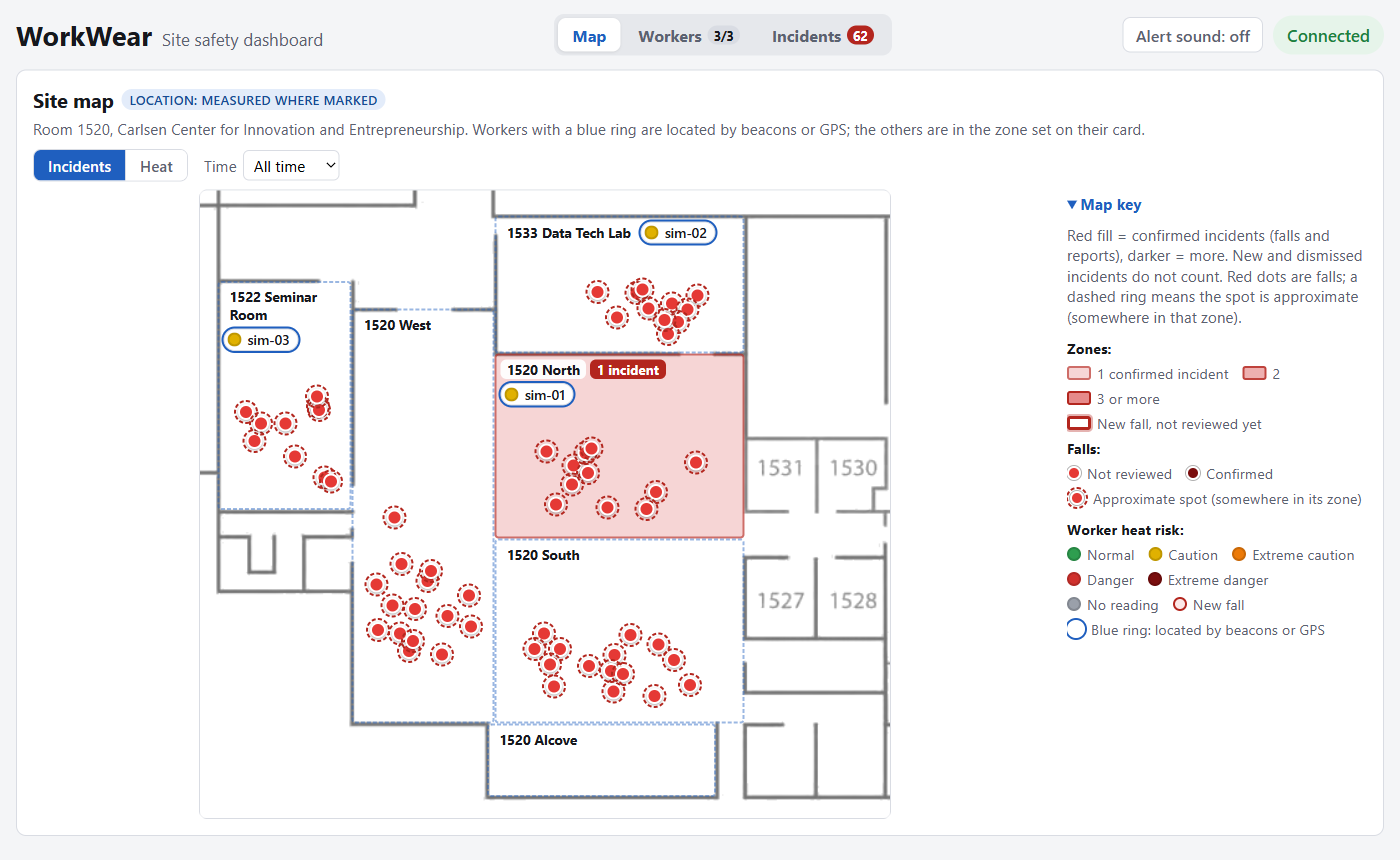
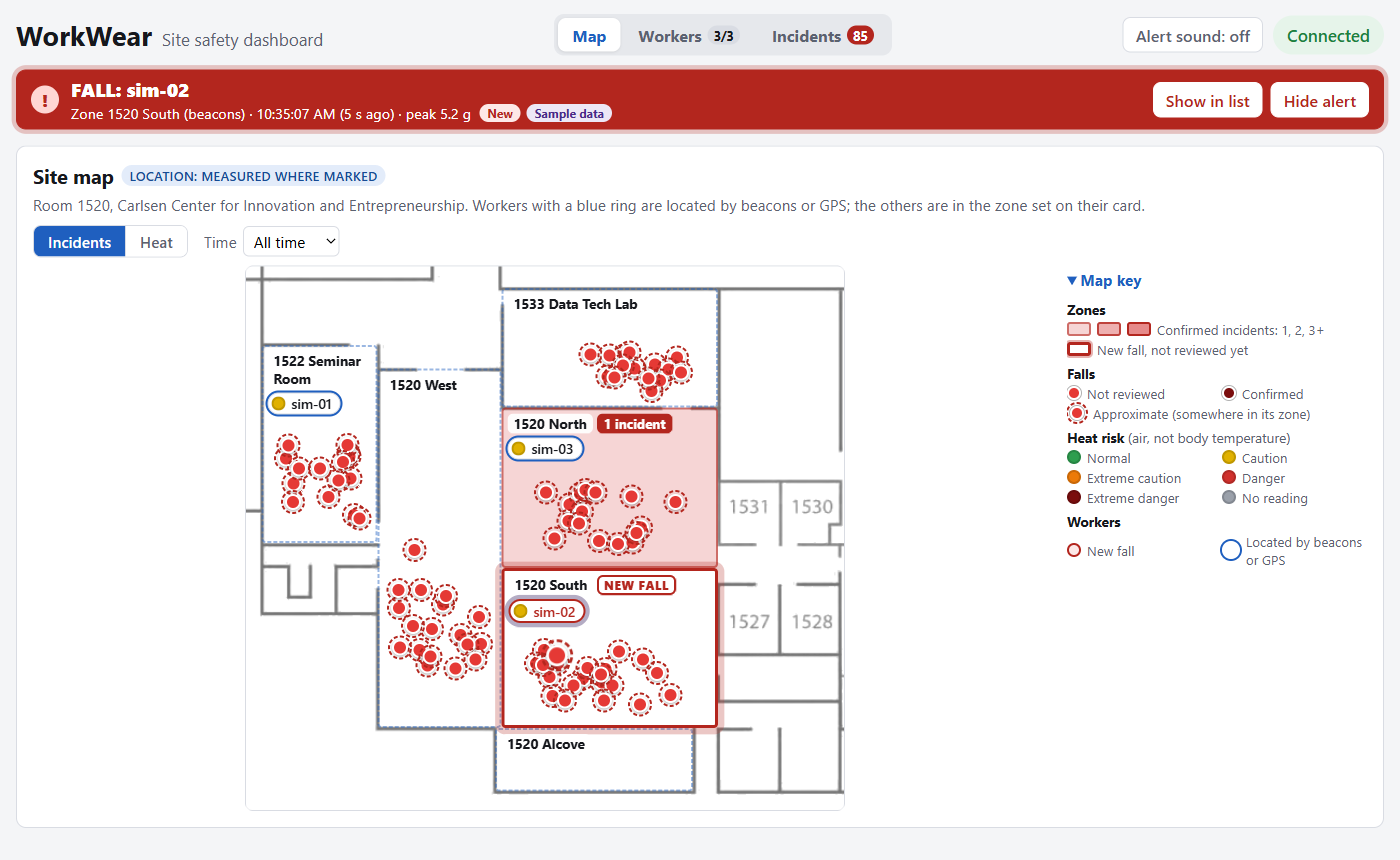
D10: fixed alert line, names above fall dots, compact map key
- The fall alert is a fixed-height line under the header that is always
  there: "No fall alerts" when quiet, red and pulsing during a fall. It
  never moves or covers the page. Only the area below it scrolls.
- Worker names and zone labels are drawn above fall dots; the pulsing
  outline has its own layer so it no longer pulls names underneath.
- Map key: description paragraph removed, four short groups in two
  columns. Beside the map on wide screens; a panel over the map on
  smaller ones, so it never needs scrolling.
- New README screenshots.

Changed region(s): [[0.0, 0.0605, 1.0, 0.9674], [0.7371, 0.2116, 0.9829, 0.7558]]

diff --git a/dashboard/style.css b/dashboard/style.css
@@ -56,12 +56,12 @@ h2 { font-size: 1.15rem; display: flex; align-items: center; gap: 8px; flex-wrap
 
 /* Views: the tab bar shows one panel at a time (body[data-view]). The Map view fills the
    window below the header, so the whole plan is on screen and the page does not scroll. */
-body { display: flex; flex-direction: column; min-height: 100vh; min-height: 100dvh; }
-.layout { flex: 1; display: flex; flex-direction: column; min-height: 0; }
+/* App layout: the header and alert line stay put; only the area below them scrolls. */
+body { display: flex; flex-direction: column; height: 100vh; height: 100dvh; overflow: hidden; }
+.layout { flex: 1; min-height: 0; overflow-y: auto; display: flex; flex-direction: column; gap: var(--gap); padding-bottom: 8px; }
 body[data-view="map"] .panel:not(.panel--map),
 body[data-view="workers"] .panel:not(.panel--workers),
 body[data-view="incidents"] .panel:not(.panel--incidents) { display: none; }
-body[data-view="map"] { height: 100vh; height: 100dvh; }
 body[data-view="map"] .footer { display: none; }
 
 .panel--map { flex: 1; min-height: 0; display: flex; flex-direction: column; }
@@ -103,8 +103,6 @@ body[data-view="map"] .footer { display: none; }
   .topbar__right { gap: 6px; flex-wrap: nowrap; }
   .topbar .btn, .conn { font-size: 0.8rem; padding: 4px 8px; white-space: nowrap; }
   .panel { padding: 10px; }
-  .alert { padding: 10px 12px; gap: 8px; }
-  .alert__title { font-size: 1.15rem; }
   .panel--map .panel__note { font-size: 0.8rem; }
 
   .tabbar {
@@ -189,22 +187,60 @@ body[data-view="map"] .footer { display: none; }
 .btn--quiet[aria-pressed="true"] { color: var(--accent); border-color: var(--accent); }
 .topbar__right { display: flex; align-items: center; gap: 10px; flex-wrap: wrap; }
 
-/* Fall alert banner (D3) */
+/* Fall alert line (D3, reworked in D10). It is always in the layout at a fixed height, so a fall
+   never moves or covers anything: quiet when idle, red and pulsing while there is a new fall. */
 .alert {
-  position: sticky; top: 0; z-index: 10; margin-bottom: var(--gap);
-  display: flex; align-items: center; justify-content: space-between; gap: var(--gap); flex-wrap: wrap;
-  padding: 14px 18px; border-radius: var(--radius); background: var(--bad); color: #fff;
-  box-shadow: 0 4px 16px rgb(0 0 0 / 0.25);
+  flex: none; height: 60px; margin-bottom: var(--gap); padding: 0 14px;
+  display: flex; align-items: center; gap: 12px;
+  border: 1px solid var(--border); border-radius: var(--radius); background: var(--panel); color: var(--muted);
 }
-.alert[hidden] { display: none; }
-.alert__body { display: flex; flex-direction: column; gap: 4px; min-width: 0; }
-.alert__title { font-size: 1.4rem; font-weight: 800; overflow-wrap: anywhere; }
-.alert__badges { display: flex; gap: 6px; flex-wrap: wrap; }
-.alert__more { font-weight: 600; }
+.alert__icon {
+  flex: none; width: 28px; height: 28px; border-radius: 50%; display: grid; place-items: center;
+  font-weight: 900; line-height: 1; background: #e6f4ea; color: var(--ok);
+}
+.alert__icon::before { content: "\2713"; } /* check mark */
+.alert__body { flex: 1; min-width: 0; display: flex; flex-direction: column; justify-content: center; gap: 2px; }
+.alert__title, .alert__detail { white-space: nowrap; overflow: hidden; text-overflow: ellipsis; }
+.alert__title { font-weight: 700; }
+.alert__detail { font-size: 0.85rem; }
+.alert__badges { display: inline-flex; gap: 6px; margin-left: 8px; vertical-align: 1px; }
+.alert__badges .badge { font-size: 0.7rem; padding: 1px 8px; }
+.alert__more { margin-left: 8px; font-weight: 700; }
 .alert__more:empty { display: none; }
-.alert__actions { display: flex; gap: 8px; flex-wrap: wrap; }
+.alert__actions { flex: none; display: flex; gap: 8px; }
+.alert[data-state="idle"] .alert__detail { display: none; }
+
+.alert[data-state="active"] {
+  background: var(--bad); border-color: var(--bad); color: #fff;
+  animation: alert-pulse 1.2s ease-in-out infinite;
+}
+.alert[data-state="active"] .alert__icon { background: #fff; color: var(--bad); animation: alert-blink 1.2s steps(2, jump-none) infinite; }
+.alert[data-state="active"] .alert__icon::before { content: "!"; }
+.alert[data-state="active"] .alert__title { font-size: 1.1rem; font-weight: 800; }
 .alert .btn { background: #fff; color: var(--bad); border-color: #fff; }
 .alert .btn:focus-visible { outline-color: #fff; }
+/* Only a glow and color change: nothing about the size changes, so nothing moves. */
+@keyframes alert-pulse {
+  0%, 100% { box-shadow: 0 0 0 0 rgb(179 38 30 / 0.6); }
+  50% { box-shadow: 0 0 0 6px rgb(179 38 30 / 0.12); }
+}
+@keyframes alert-blink { 50% { background: #ffd6d3; } }
+@media (prefers-reduced-motion: reduce) {
+  .alert[data-state="active"], .alert[data-state="active"] .alert__icon { animation: none; }
+}
+/* Phones: a bit taller, so the detail gets two lines; the buttons stack. */
+@media (max-width: 700px) {
+  .alert { height: 70px; padding: 0 10px; gap: 8px; }
+  .alert__detail {
+    white-space: normal; display: -webkit-box; -webkit-line-clamp: 2; -webkit-box-orient: vertical;
+    font-size: 0.75rem; line-height: 1.25;
+  }
+  .alert[data-state="active"] .alert__title { font-size: 1rem; }
+  .alert__badges { margin-left: 6px; gap: 4px; }
+  .alert__badges .badge { font-size: 0.65rem; padding: 0 6px; }
+  .alert__actions { flex-direction: column; gap: 4px; }
+  .alert .btn { font-size: 0.75rem; padding: 3px 8px; }
+}
 
 /* Incident list (D3) */
 .incidents { list-style: none; margin: 0; padding: 0; display: flex; flex-direction: column; gap: 8px; }
@@ -291,8 +327,21 @@ body[data-view="map"] .footer { display: none; }
 
 .mapkey { margin: 0; }
 .mapkey > summary { cursor: pointer; font-weight: 700; font-size: 0.9rem; color: var(--accent); padding: 4px 0; }
-.mapkey > .panel__note { margin: 6px 0 0; }
-.mapkey .legend__title { flex-basis: 100%; } /* each group starts on its own line */
+.mapkey__title { font-size: 0.8rem; font-weight: 700; margin: 6px 0 2px; color: var(--text); }
+.mapkey__sub { font-weight: 400; color: var(--muted); }
+.mapkey .legend { margin: 0; display: grid; grid-template-columns: repeat(2, minmax(0, 1fr)); gap: 2px 10px; font-size: 0.78rem; }
+.legend__wide { grid-column: 1 / -1; }
+#legend-incidents[hidden] { display: none; }
+/* Smaller screens: the open key is a panel over the bottom of the map, so it never needs scrolling. */
+@media (max-width: 999px) {
+  .mapwrap__main { flex: 0 1 auto; } /* key right under the map, not at the bottom of the panel */
+  .mapkey { position: relative; }
+  .mapkey[open] > .mapkey__body {
+    position: absolute; left: 0; right: 0; bottom: calc(100% + 6px); z-index: 6;
+    background: var(--panel); border: 1px solid var(--border); border-radius: var(--radius);
+    padding: 2px 12px 10px; box-shadow: 0 6px 24px rgb(0 0 0 / 0.18);
+  }
+}
 .legend { list-style: none; margin: 12px 0 0; padding: 0; display: flex; flex-wrap: wrap; gap: 6px 14px; font-size: 0.85rem; color: var(--muted); }
 .legend li { display: inline-flex; align-items: center; gap: 6px; }
 .legend .dot__swatch { width: 14px; height: 14px; }
@@ -372,14 +421,27 @@ body[data-view="map"] .footer { display: none; }
   .map--plan .zone__fall { font-size: 0.6rem; padding: 0 3px; border-width: 1.5px; border-radius: 4px; }
 }
 .zone--fall .zone__fall { display: inline-block; }
-.zone.zone--fall { border: 3px solid var(--bad); z-index: 2; animation: zone-pulse 1.2s ease-in-out infinite; }
+.zone.zone--fall { border: 3px solid var(--bad); }
+/* The pulse is its own layer, so the zone itself makes no stacking context and its names can
+   still sit above the fall dots (see "Map stacking" below). */
+.zone--fall::after {
+  content: ""; position: absolute; inset: -3px; border-radius: inherit; pointer-events: none;
+  z-index: 2; animation: zone-pulse 1.2s ease-in-out infinite;
+}
 @keyframes zone-pulse {
   0%, 100% { box-shadow: 0 0 0 2px rgb(179 38 30 / 0.55); }
   50% { box-shadow: 0 0 0 8px rgb(179 38 30 / 0.15); }
 }
 @media (prefers-reduced-motion: reduce) {
-  .zone.zone--fall { animation: none; box-shadow: 0 0 0 4px rgb(179 38 30 / 0.45); }
+  .zone--fall::after { animation: none; box-shadow: 0 0 0 4px rgb(179 38 30 / 0.45); }
 }
+
+/* Map stacking: zones (no z-index) < pulse outline (2) < fall dots (3) < names and tags (4).
+   Worker names and zone labels are never hidden under fall dots. The name lists let clicks
+   through to the fall dots underneath, except on the names themselves. */
+.map--plan .zone__label, .map--plan .zone__layer, .map--plan .zone__fall, .map--plan .zone .dots { position: relative; z-index: 4; }
+.map--plan .zone .dots { pointer-events: none; }
+.map--plan .zone .dot { pointer-events: auto; }
 
 /* Fall dots on the floor plan. Solid = at its GPS position; dashed ring = approximate (a steady
    spot inside the zone it was recorded in). Bright = not reviewed, dark = confirmed. */

diff --git a/dashboard/index.html b/dashboard/index.html
@@ -27,16 +27,17 @@
     </div>
   </header>
 
-  <div id="alert" class="alert" role="alert" hidden>
-    <div class="alert__body">
-      <div class="alert__title" id="alert-title"></div>
-      <div id="alert-detail"></div>
-      <div class="alert__badges" id="alert-badges"></div>
-      <div class="alert__more" id="alert-more"></div>
+  <!-- Fall alert line: always there at a fixed height, so a fall never moves or covers the page.
+       Quiet when there is nothing; red and pulsing when a fall comes in. -->
+  <div id="alert" class="alert" data-state="idle">
+    <span class="alert__icon" aria-hidden="true"></span>
+    <div class="alert__body" role="alert">
+      <div class="alert__title" id="alert-title">No fall alerts</div>
+      <div class="alert__detail"><span id="alert-detail"></span><span class="alert__badges" id="alert-badges"></span><span class="alert__more" id="alert-more"></span></div>
     </div>
     <div class="alert__actions">
-      <button id="alert-show" class="btn" type="button">Show in list</button>
-      <button id="alert-hide" class="btn" type="button">Hide alert</button>
+      <button id="alert-show" class="btn" type="button" hidden>Show in list</button>
+      <button id="alert-hide" class="btn" type="button" hidden>Hide alert</button>
     </div>
   </div>
 
@@ -74,29 +75,35 @@
       </div>
       <details class="mapkey" id="map-key">
       <summary>Map key</summary>
-      <p class="panel__note" id="map-layer-note"></p>
-      <ul class="legend" id="legend-incidents" aria-label="Zone colors">
-        <li class="legend__title">Zones:</li>
-        <li><span class="legend__zone legend__zone--shade-1"></span>1 confirmed incident</li>
-        <li><span class="legend__zone legend__zone--shade-2"></span>2</li>
-        <li><span class="legend__zone legend__zone--shade-3"></span>3 or more</li>
-        <li><span class="legend__zone legend__zone--fall"></span>New fall, not reviewed yet</li>
-        <li class="legend__title">Falls:</li>
-        <li><span class="legend__marker marker--new marker--exact"></span>Not reviewed</li>
-        <li><span class="legend__marker marker--confirmed marker--exact"></span>Confirmed</li>
-        <li><span class="legend__marker marker--new marker--approx"></span>Approximate spot (somewhere in its zone)</li>
-      </ul>
-      <ul class="legend" aria-label="Worker dot colors">
-        <li class="legend__title">Worker heat risk:</li>
-        <li><span class="dot__swatch heat--normal"></span>Normal</li>
-        <li><span class="dot__swatch heat--caution"></span>Caution</li>
-        <li><span class="dot__swatch heat--extreme-caution"></span>Extreme caution</li>
-        <li><span class="dot__swatch heat--danger"></span>Danger</li>
-        <li><span class="dot__swatch heat--extreme-danger"></span>Extreme danger</li>
-        <li><span class="dot__swatch heat--none"></span>No reading</li>
-        <li><span class="dot__swatch dot__swatch--fall"></span>New fall</li>
-        <li><span class="legend__located"></span>Blue ring: located by beacons or GPS</li>
-      </ul>
+      <div class="mapkey__body">
+        <div id="legend-incidents">
+          <h3 class="mapkey__title">Zones</h3>
+          <ul class="legend" aria-label="Zone colors">
+            <li class="legend__wide"><span class="legend__zone legend__zone--shade-1"></span><span class="legend__zone legend__zone--shade-2"></span><span class="legend__zone legend__zone--shade-3"></span>Confirmed incidents: 1, 2, 3+</li>
+            <li class="legend__wide"><span class="legend__zone legend__zone--fall"></span>New fall, not reviewed yet</li>
+          </ul>
+          <h3 class="mapkey__title">Falls</h3>
+          <ul class="legend" aria-label="Fall dots">
+            <li><span class="legend__marker marker--new marker--exact"></span>Not reviewed</li>
+            <li><span class="legend__marker marker--confirmed marker--exact"></span>Confirmed</li>
+            <li class="legend__wide"><span class="legend__marker marker--new marker--approx"></span>Approximate (somewhere in its zone)</li>
+          </ul>
+        </div>
+        <h3 class="mapkey__title">Heat risk <span class="mapkey__sub">(air, not body temperature)</span></h3>
+        <ul class="legend" aria-label="Heat risk colors">
+          <li><span class="dot__swatch heat--normal"></span>Normal</li>
+          <li><span class="dot__swatch heat--caution"></span>Caution</li>
+          <li><span class="dot__swatch heat--extreme-caution"></span>Extreme caution</li>
+          <li><span class="dot__swatch heat--danger"></span>Danger</li>
+          <li><span class="dot__swatch heat--extreme-danger"></span>Extreme danger</li>
+          <li><span class="dot__swatch heat--none"></span>No reading</li>
+        </ul>
+        <h3 class="mapkey__title">Workers</h3>
+        <ul class="legend" aria-label="Worker dots">
+          <li><span class="dot__swatch dot__swatch--fall"></span>New fall</li>
+          <li><span class="legend__located"></span>Located by beacons or GPS</li>
+        </ul>
+      </div>
       </details>
       </div>
     </section>
@@ -125,12 +132,12 @@
       <div id="incidents-empty" class="empty">No incidents yet.</div>
       <ol id="incidents" class="incidents" aria-label="Incidents, newest first" hidden></ol>
     </section>
-  </main>
 
-  <footer class="footer">
-    Heat risk is based on ambient temperature and humidity at the helmet, not body temperature.
-    Location is the zone set by the supervisor (simulated) unless a helmet locates itself with beacons or GPS,
-    which the map marks. Data from simulated helmets is labeled as sample data.
-  </footer>
+    <footer class="footer">
+      Heat risk is based on ambient temperature and humidity at the helmet, not body temperature.
+      Location is the zone set by the supervisor (simulated) unless a helmet locates itself with beacons or GPS,
+      which the map marks. Data from simulated helmets is labeled as sample data.
+    </footer>
+  </main>
 </body>
 </html>

diff --git a/dashboard/app.js b/dashboard/app.js
@@ -130,7 +130,7 @@ function setView(view) {
   if (document.body.dataset.view === view) return;
   document.body.dataset.view = view;
   for (const b of document.querySelectorAll(".tabbar__btn")) b.setAttribute("aria-pressed", String(b.dataset.view === view));
-  window.scrollTo(0, 0);
+  document.querySelector(".layout").scrollTop = 0; // only the area under the header scrolls
 }
 
 for (const b of document.querySelectorAll(".tabbar__btn")) b.addEventListener("click", () => setView(b.dataset.view));
@@ -316,9 +316,18 @@ function badgeEls(badges) {
 }
 
 function renderAlert() {
+  // The alert line is always on the page at a fixed height (style.css); only its state changes.
   const box = $("alert");
-  if (state.alerts.length === 0) {
-    box.hidden = true;
+  const active = state.alerts.length > 0;
+  if (box.dataset.state !== (active ? "active" : "idle")) box.dataset.state = active ? "active" : "idle";
+  $("alert-show").hidden = !active;
+  $("alert-hide").hidden = !active;
+  if (!active) {
+    setText("alert-title", "No fall alerts");
+    setText("alert-detail", "");
+    setText("alert-more", "");
+    $("alert-badges").replaceChildren();
+    $("alert-badges").dataset.key = "";
     document.title = BASE_TITLE;
     return;
   }
@@ -332,8 +341,7 @@ function renderAlert() {
     $("alert-badges").dataset.key = key;
   }
   const more = state.alerts.length - 1;
-  setText("alert-more", more ? `+ ${more} more new fall${more > 1 ? "s" : ""} (see the list)` : "");
-  box.hidden = false;
+  setText("alert-more", more ? `+ ${more} more new fall${more > 1 ? "s" : ""}` : "");
   document.title = `(${state.alerts.length}) FALL · ${BASE_TITLE}`;
 }
 
@@ -774,7 +782,6 @@ function renderMap() {
   // itself may have moved on since.
   const fallZones = new Set(state.alerts.map((a) => a.zone).filter(Boolean));
   const hazards = new Map(state.hazards.map((h) => [h.zone, h]));
-  let sample = 0;
   for (const c of layout.cells) {
     const z = zoneLists.get(c.id);
     if (!z) continue;
@@ -785,7 +792,6 @@ function renderMap() {
     // Layer (D5): confirmed incidents fill the zone red, or heat colors it. A new fall is an
     // outline and a "New fall" tag, never a fill, so it can't be mistaken for a past hazard.
     const h = hazards.get(c.id);
-    sample += h?.sample_count ?? 0;
     const v = state.layer === "heat" ? zoneHeatView(h) : hazardView(h);
     let cls = state.layer === "heat" ? `zone zone--heat zone--heat-${v.level ?? "none"}` : `zone zone--shade-${v.shade}`;
     if (hasFall) cls += " zone--fall";
@@ -795,13 +801,7 @@ function renderMap() {
     if (z.cell.title !== label) { z.cell.title = label; z.cell.setAttribute("aria-label", label); }
   }
   $("legend-incidents").hidden = state.layer === "heat";
-  const markers = renderMarkers(layout) ?? [];
-  const approx = markers.some((m) => !m.exact);
-  setText("map-layer-note", state.layer === "heat"
-    ? "Colored by the highest heat index measured in each zone, in the same colors as the worker dots (heat risk from air conditions, not body temperature)."
-    : `Red fill = confirmed incidents (falls and reports), darker = more. New and dismissed incidents do not count.${
-      sample ? " Counts include sample data from simulated helmets." : ""}${
-      markers.length ? ` Red dots are falls${approx ? "; a dashed ring means the spot is approximate (somewhere in that zone)" : ""}.` : ""}`);
+  renderMarkers(layout);
   renderLocationLabels();
   placeDots($("map-off"), layout.offMap, fallen);
   $("map-off").parentElement.hidden = layout.offMap.length === 0;

diff --git a/dashboard/README.md b/dashboard/README.md
@@ -20,21 +20,21 @@ cd server
 python3 simulator.py --devices 3 --fall-every 30 --heat-ramp 5
 ```
 
-Three simulated helmets appear within a second. Every 30 s one of them "falls", and the red alert banner comes up.
+Three simulated helmets appear within a second. Every 30 s one of them "falls", and the alert line under the header turns red.
 
 ## 2. What is on the page
 
 | Part | What it does |
 |---|---|
 | **Tabs** | One view at a time: **Map**, **Workers** (shows online / all helmets), and **Incidents** (shows how many are new, in red). The page opens on the map, which is sized to fit the window so nothing scrolls. The tabs are in the header; on a phone (700 px wide or less) they are a bar at the bottom. "Show in list" and clicking a fall dot switch to Incidents. |
-| **Alert banner** | Comes up for each fall that arrives while the page is open, with who, where, when, and the peak g. It stays until you click **Hide alert**. Falls that were already in the list when the page opened do not raise it. The browser tab title also shows the count, e.g. "(1) FALL". |
+| **Alert line** | The line under the header is always there and never changes size, so an alert never moves or covers anything. It reads "No fall alerts" until a fall arrives while the page is open; then it turns **red and pulses**, with who, where, when, and the peak g, and **Show in list** / **Hide alert**. It stays until you click **Hide alert**. Falls that were already in the list when the page opened do not raise it. The browser tab title also shows the count, e.g. "(1) FALL". Only the area below the alert line scrolls. |
 | **Alert sound** | Off when the page opens: browsers block sound until you click something. Click **Alert sound: off** to turn it on (it plays a test beep). |
 | **Workers** | One card per helmet: name, online/offline (offline = nothing for 5 s), heat risk color and reading, helmet on/off, last seen. **Click the name to rename** (Enter saves, Esc cancels). **Pick a zone** from the list to say where the worker is. Both are saved on the server, and new incidents use the name and zone at that moment. |
 | **Site map** | The floor plan of room 1520 (from `zones.json`) with its zones drawn on it. A dot per worker in their zone, colored by heat risk. Workers without a zone are listed under "Not on the map". |
-| **Fall dots** | Every fall that isn't dismissed is a red dot on the plan (Incidents layer; the **Time** filter applies). Bright = not reviewed, dark = confirmed; a new fall's dot pulses. With a GPS position (and `gps_points` set up, section 4) the dot is at that spot. Otherwise it sits at a fixed spot inside the zone the fall was recorded in, with a **dashed ring meaning "approximate"**. Hover for who, when, and how sure; click to jump to it in the list. |
+| **Fall dots** | Every fall that isn't dismissed is a red dot on the plan (Incidents layer; the **Time** filter applies). Bright = not reviewed, dark = confirmed; a new fall's dot pulses. With a GPS position (and `gps_points` set up, section 4) the dot is at that spot. Otherwise it sits at a fixed spot inside the zone the fall was recorded in, with a **dashed ring meaning "approximate"**. Hover for who, when, and how sure; click to jump to it in the list. Worker names and zone labels are always drawn on top of fall dots. |
 | **Located workers** | Workers whose helmet located itself (BLE beacons or GPS) have a **blue ring**, and their card says "Located in ... by beacons". The map tag then reads "Location: measured where marked" instead of "Simulated location". Otherwise the zone picked on the card is used. |
 | **New fall on the map** | The zone gets a thick **pulsing red outline** and a **NEW FALL** tag, and the worker's dot pulses. This is never a fill, so a live fall can't be mistaken for a past hazard. It lasts until the alert is hidden or the fall is confirmed or dismissed. |
-| **Map key** | The colors and what they mean. Beside the map on wide screens; on smaller ones, tap **Map key** under the map. |
+| **Map key** | The colors and what they mean, in short groups (Zones, Falls, Heat risk, Workers). Beside the map on wide screens; on smaller ones, tap **Map key** under the map and it opens over the bottom of the map, so there is nothing to scroll. |
 | **Map layers** | **Incidents** fills each zone **red** by its number of **confirmed** incidents (light, medium, dark = 1, 2, 3 or more) with a count tag. Confirming a fall turns its zone's outline into a red fill. **Heat** tints each zone in the heat-risk color of the highest heat index measured there. **Time** limits both to the last 24 h, 8 h, or hour. Hover a zone for the full text. |
 | **Incidents** | Newest first, with badges: New / Confirmed / Dismissed, Sample data, Arrived late. **Confirm** a real incident, **Dismiss** a false alarm, or **Mark new** to undo. Add or edit a note on any incident. Confirming or dismissing a fall also clears its alert. |
 | **Report injury or hazard** | For things the helmet cannot detect, such as a cut hand or a wet floor. Pick the type and zone, and optionally the helmet (its name is copied) or a typed name. Reports start as New; confirm them for them to count on the map. |
@@ -121,7 +121,7 @@ The tests cover the parts that make decisions (heat labels, which falls raise th
 | A rename or zone change shows a red message | The server refused or did not answer; the message says why. The old value is kept. |
 | The map says zones.json could not be loaded | The file has a JSON error (a missing comma is common). Check it with `python3 -m json.tool dashboard/zones.json`. |
 | A worker is not on the map | They have no zone, or a zone not in `zones.json`. Pick one on their card. |
-| An old fall doesn't raise the alert | That is on purpose: only falls that arrive while the page is open do. Check the list for anything still marked New. |
+| An old fall doesn't raise the alert | That is on purpose: only falls that arrive while the page is open do. Check the list for anything still marked New (the red count on the Incidents tab). |
 
 ## Layout
 

diff --git a/PLAN.md b/PLAN.md
@@ -114,7 +114,13 @@ Five people, five workstreams. Owners are TBD: write your name next to a task be
   - **Map view fits the window:** the plan is as large as the space below the header allows and the page does not scroll, also while a fall banner is showing. On wide screens (1000 px or more) the map key sits beside the map; on smaller ones it folds into "Map key" under it.
   - "Show in list" and clicking a fall dot switch to Incidents and scroll to that row. The fall banner shows on every tab.
   - **Bug fixed (from D8):** the pulsing "NEW FALL" outline was drawn on the zone the worker is in *now*, so after a beacon-located worker moved, it sat on the wrong zone (seen: alert said 1520 North, outline on 1533). It now uses the zone the fall was recorded in.
-  - Checked in Chrome with the simulator: phone 390x844, tablet 820x1180, laptops 1366x768 and 1280x620. On each, the Map view is exactly one screen tall with the whole plan visible and no sideways scroll. Also checked: tab switching, a fall dot jumping to its row, and a live fall outlining 1520 North to match its alert. 48 `node --test` tests pass. New README screenshots in `docs/img/`. Still to do: fall dots can cover a worker's name tag when many falls pile up in one zone (seen with ~60 simulated falls on "All time").
+  - Checked in Chrome with the simulator: phone 390x844, tablet 820x1180, laptops 1366x768 and 1280x620. On each, the Map view is exactly one screen tall with the whole plan visible and no sideways scroll. Also checked: tab switching, a fall dot jumping to its row, and a live fall outlining 1520 North to match its alert. 48 `node --test` tests pass. New README screenshots in `docs/img/`. Still to do: fall dots can cover a worker's name tag when many falls pile up in one zone (seen with ~60 simulated falls on "All time"). *Fixed in D10.*
+
+- [x] **D10. Alert line, names above fall dots, compact map key.** *Claude (for Elijah), 2026-11-07.* Elijah: "I don't like how the alert pops up and shifts everything on the page... without covering anything or shifting the page", and "fix the fall dots covering worker names and make the map Key somthing you dont need to scroll. Get rid of the descriptio section in it."
+  - **Alert line:** always on the page under the header at a fixed height (60 px; 70 px on phones). It reads "No fall alerts" with a green check. When a fall arrives it turns red with a blinking "!" and a pulsing glow (color and glow only, no size change), and the tab title, the Incidents tab count, the zone outline and the sound (if on) work as before. The page is now an app layout: the header and alert line stay put and only the area below scrolls, so the alert is visible on every tab without sliding over anything. "Reduce motion" turns the pulsing off.
+  - **Names above fall dots:** worker names, zone labels and the NEW FALL and count tags are drawn above the fall dots. The pulsing outline moved to its own layer so it no longer pulls a zone's names under the dots. Fall dots stay clickable around the names.
+  - **Map key:** the description paragraph is removed. It is now four short groups (Zones, Falls, Heat risk, Workers) in two columns. The heat group's title still says "air, not body temperature", and the footer and zone tags still carry the sample-data and simulated-location labels. On wide screens it sits beside the map; on smaller ones it opens as a panel over the bottom of the map.
+  - Checked in Chrome with the simulator. At 1366x768 and 390x844, the alert line, map and panel stay at the same position and size before and after a live fall. 11 names and labels were sampled at 6 points each, and none had a fall dot on top. The key has no scroll at 1366x768 and 1280x620 (exactly fits), and on a phone it opens above the summary inside the screen. On the Incidents tab the list scrolls inside the content area while the header and alert line stay put, and a fall dot still jumps to its row. 48 `node --test` tests pass. Known limit: in a small zone on a phone, several workers plus tags can still spill into the zone below (seen with 3 simulated workers in 1520 North).
 
 Original task list (covered by the phases above):
 - [x] Device list with names and status, incident list, zone map on a floor-plan image, heat color per worker. *(Floor plan added in D7.)*
